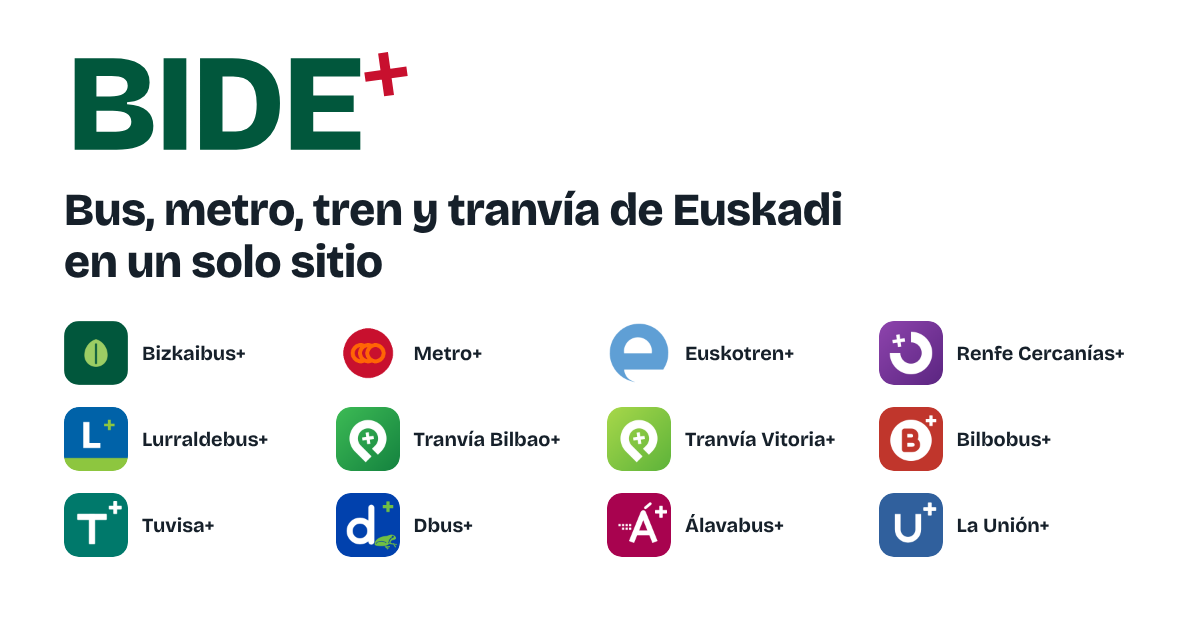
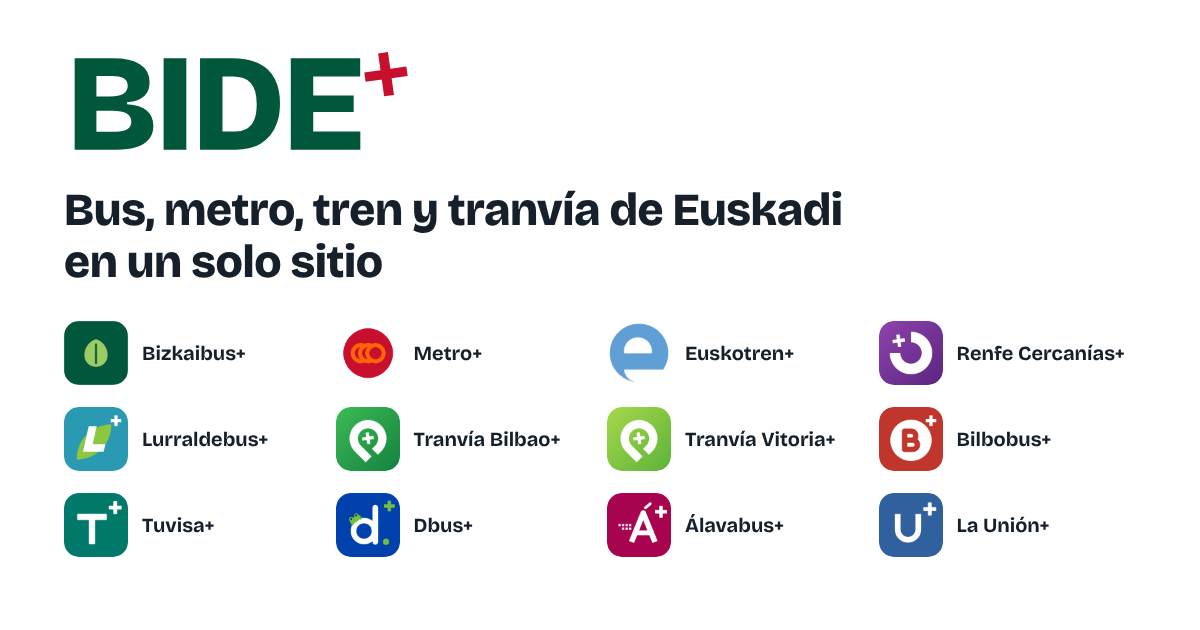
Bide+ versión 50: Lurraldebus+ y Dbus+ estrenan imagen (#119)
- Lurraldebus+: icono nuevo con la hoja de su logo y una L en cursiva, sobre el turquesa de sus autobuses con la hoja en verde lima. Cabecera, ficha del inicio y paleta en esos colores; en la cabecera, la marca en blanco, sin recuadro y algo más grande.
- Dbus+: el icono definitivo, con la rana asomando sobre la d.
- «Nuevo» durante 3 días para cualquier red o función nueva.
- Versión 50 con su nota en castellano, euskera e inglés.

Changed region(s): [[0.0308, 0.6333, 0.1233, 0.754], [0.2775, 0.7841, 0.3392, 0.8746]]

diff --git a/bideplus/js/i18n.js b/bideplus/js/i18n.js
@@ -100,6 +100,8 @@
             'bide.upcoming.planner.2': 'Coste del viaje según los transportes que elijas.',
             'bide.upcoming.planner.3': 'Seguimiento del viaje en curso: por dónde vas, cuánto falta para el transbordo y la hora de llegada, actualizados con el directo.',
             'bide.upcoming.planner.4': 'Si quieres, un aviso en el móvil un rato antes de cada transbordo. Es opcional: lo activas al planificar el viaje.',
+            'bide.changelog.50.title': 'Lurraldebus+ y Dbus+ estrenan imagen',
+            'bide.changelog.50.text': 'Lurraldebus+ estrena icono y colores: la hoja de su logo con el turquesa de sus autobuses. Dbus+ cambia a su icono definitivo, con la rana asomando sobre la d. En el móvil, el icono de la app instalada puede tardar un poco en cambiar.',
             'bide.changelog.48.title': 'Iconos nuevos para Bilbobus+ y Dbus+',
             'bide.changelog.48.text': 'Bilbobus+ y Dbus+ estrenan icono, dibujado a partir de la imagen de cada servicio: la B redonda de Bilbobus y la d de Dbus con su rana verde. En el móvil, el icono de la app instalada puede tardar un poco en cambiar.',
             'bide.changelog.47.title': 'Apoya Bide+, a mano',
@@ -541,6 +543,8 @@
             'bide.upcoming.planner.2': 'Bidaiaren kostua, aukeratzen dituzun garraioen arabera.',
             'bide.upcoming.planner.3': 'Uneko bidaiaren jarraipena: non zauden, zenbat falta den aldaketarako eta iristeko ordua, zuzenekoarekin eguneratuta.',
             'bide.upcoming.planner.4': 'Nahi baduzu, abisu bat mugikorrean aldaketa bakoitza baino lehen. Aukerakoa da: bidaia planifikatzean aktibatzen da.',
+            'bide.changelog.50.title': 'Lurraldebus+ eta Dbus+ aplikazioek irudi berria',
+            'bide.changelog.50.text': 'Lurraldebus+ aplikazioak ikono eta kolore berriak ditu: bere logoko hostoa, autobusen turkesarekin. Dbus+ aplikazioak behin betiko ikonoa du, igela d-aren gainetik begira. Mugikorrean, instalatutako aplikazioaren ikonoak denbora pixka bat behar dezake aldatzeko.',
             'bide.changelog.48.title': 'Ikono berriak Bilbobus+ eta Dbus+ aplikazioentzat',
             'bide.changelog.48.text': 'Bilbobus+ eta Dbus+ aplikazioek ikono berria dute, zerbitzu bakoitzaren irudian oinarrituta: Bilbobuseko B biribila eta Dbuseko d-a bere igel berdearekin. Mugikorrean, instalatutako aplikazioaren ikonoak denbora pixka bat behar dezake aldatzeko.',
             'bide.changelog.47.title': 'Lagundu Bide+, eskura',
@@ -982,6 +986,8 @@
             'bide.upcoming.planner.2': 'Trip cost based on the transport you choose.',
             'bide.upcoming.planner.3': 'Live tracking of your current trip: where you are, how long until the transfer and your arrival time, updated with real-time data.',
             'bide.upcoming.planner.4': 'Optionally, a notification on your phone a little before each transfer. You turn it on when planning the trip.',
+            'bide.changelog.50.title': 'A new look for Lurraldebus+ and Dbus+',
+            'bide.changelog.50.text': 'Lurraldebus+ has a new icon and colours: the leaf from its logo with the turquoise of its buses. Dbus+ switches to its final icon, with the frog peeking over the d. On your phone, the installed app’s icon may take a little while to change.',
             'bide.changelog.48.title': 'New icons for Bilbobus+ and Dbus+',
             'bide.changelog.48.text': 'Bilbobus+ and Dbus+ have new icons, drawn from each service’s own look: the round B of Bilbobus and the d of Dbus with its green frog. On your phone, the installed app’s icon may take a little while to change.',
             'bide.changelog.47.title': 'Support Bide+, close at hand',

diff --git a/bideplus/css/style-networks.css b/bideplus/css/style-networks.css
@@ -14,7 +14,7 @@
     --c: #74349A;
 }
 .tile--lurraldebus {
-    --c: #0062A8;
+    --c: #2A9AB2;
 }
 .tile--tranvia-bilbao {
     --c: #4EB848;
@@ -49,7 +49,7 @@ html.bide .bide-swatch--renfe {
     background: #74349A;
 }
 html.bide .bide-swatch--lurraldebus {
-    background: #0062A8;
+    background: #2A9AB2;
 }
 html.bide .bide-swatch--tranvia-bilbao {
     background: #2f7a2a;
@@ -108,12 +108,12 @@ html.is-renfe {
     --backdrop: rgba(18, 10, 22, .5);
 }
 html.is-lurraldebus {
-    --bg: #f4f7fb;
-    --border: #d9e3ef;
-    --primary: #0062A8;
+    --bg: #f3f8f9;
+    --border: #d4e6ea;
+    --primary: #1E7C95;
     --primary-light: #8DC63F;
-    --primary-dark: #003F70;
-    --primary-tint: #E6F0F8;
+    --primary-dark: #145A6C;
+    --primary-tint: #E2F2F5;
     --text: #152230;
     --text-secondary: #556372;
     --backdrop: rgba(8, 16, 26, .5);

diff --git a/bideplus/css/style-app.css b/bideplus/css/style-app.css
@@ -278,6 +278,10 @@ svg[viewBox] rect {
         object-fit: contain;
         filter: brightness(0) invert(1);
     }
+    .app-logomark > img.is-large {
+        width: 90%;
+        height: 90%;
+    }
     .app-logomark > img.is-icon {
         width: 100%;
         height: 100%;

diff --git a/bideplus/js/networks.js b/bideplus/js/networks.js
@@ -205,7 +205,7 @@
     "lurraldebus": {
         "kind": "bus",
         "icons": "icons-lurraldebus",
-        "themeColor": "#0062A8",
+        "themeColor": "#2A9AB2",
         "title": [
             "LURRALDEBUS",
             ""

diff --git a/bideplus/api/Services/Changelog.php b/bideplus/api/Services/Changelog.php
@@ -6,6 +6,7 @@ namespace Services;
 final class Changelog
 {
     public const ENTRIES = [
+        ['2026-11-05', '05/11/2026', 50, 'Lurraldebus+ y Dbus+ estrenan imagen', 'Lurraldebus+ estrena icono y colores: la hoja de su logo con el turquesa de sus autobuses. Dbus+ cambia a su icono definitivo, con la rana asomando sobre la d. En el móvil, el icono de la app instalada puede tardar un poco en cambiar.'],
         ['2026-11-05', '05/11/2026', 48, 'Iconos nuevos para Bilbobus+ y Dbus+', 'Bilbobus+ y Dbus+ estrenan icono, dibujado a partir de la imagen de cada servicio: la B redonda de Bilbobus y la d de Dbus con su rana verde. En el móvil, el icono de la app instalada puede tardar un poco en cambiar.'],
         ['2026-11-05', '05/11/2026', 47, 'Apoya Bide+, a mano', '«Apoya Bide+» está ahora a mano: en el pie de todas las páginas, en la columna lateral del ordenador y en Ajustes, dentro de «La app». Todas las pantallas usan la misma letra, con la negrita de verdad, y la app pesa menos. En el ordenador, la columna lateral lleva también a Estado de las redes, y el pie enseña las apps en dos columnas.'],
         ['2026-11-05', '05/11/2026', 46, 'Todos los trenes, iguales', 'Metro, Euskotren, Renfe y los tranvías enseñan cada estación igual: el nombre arriba, un botón por cada línea que para y un bloque por sentido con el próximo tren en grande. En Renfe, cada bloque es una línea con su destino («C1 → Santurtzi»). Todas las apps usan ya el mismo tamaño de letra, y un tren cancelado nunca sale como el próximo. En iPhone, Ajustes y una pregunta nueva de Info explican por qué el móvil pide la ubicación cada vez que usas «Cerca de mí».'],

diff --git a/bideplus/api/Networks/lurraldebus.php b/bideplus/api/Networks/lurraldebus.php
@@ -8,21 +8,21 @@ return [
 
     'brand' => [
         'icons' => 'icons-lurraldebus',
-        'theme_color' => '#0062A8',
+        'theme_color' => '#2A9AB2',
         'title' => ['LURRALDEBUS', ''],
-        'logomark' => '<img class="is-icon" src="/icons-lurraldebus/icon-192.png" alt="Lurraldebus+" aria-hidden="true">',
+        'logomark' => '<img class="is-large" src="/icons-lurraldebus/glyph.png" alt="Lurraldebus+" aria-hidden="true">',
         'card_logomark' => '<img src="/icons-lurraldebus/icon-192.png" alt="Lurraldebus+" aria-hidden="true">',
         // Colores (scripts/build-networks-css.php los pasa a css/style-networks.css): la ficha del menú, el cuadradito de
         // Bide+ y la paleta de la app. Sin paleta ni cuadradito, los de Bide+ (verde).
-        'tile_color' => '#0062A8',
-        'swatch_color' => '#0062A8',
+        'tile_color' => '#2A9AB2',
+        'swatch_color' => '#2A9AB2',
         'palette' => [
-            'bg' => '#f4f7fb',
-            'border' => '#d9e3ef',
-            'primary' => '#0062A8',
+            'bg' => '#f3f8f9',
+            'border' => '#d4e6ea',
+            'primary' => '#1E7C95',
             'primary-light' => '#8DC63F',
-            'primary-dark' => '#003F70',
-            'primary-tint' => '#E6F0F8',
+            'primary-dark' => '#145A6C',
+            'primary-tint' => '#E2F2F5',
             'text' => '#152230',
             'text-secondary' => '#556372',
             'backdrop' => 'rgba(8, 16, 26, .5)',

diff --git a/bideplus/tests/push-test.php b/bideplus/tests/push-test.php
@@ -387,8 +387,8 @@ try {
 
     $iVersion = Changelog::version();
     $Expect('versión: es la última novedad', $iVersion === Changelog::ENTRIES[0][2] && $iVersion >= 34, (string)$iVersion);
-    $aNewer = Changelog::newerThan($iVersion - 2, 'es');
-    $Expect('versión: lo que trae cada versión posterior a la del móvil, de la más nueva a la más vieja', array_column($aNewer, 'number') === [$iVersion, $iVersion - 1] && $aNewer[0]['title'] === Changelog::ENTRIES[0][3]);
+    $aNewer = Changelog::newerThan(Changelog::ENTRIES[2][2], 'es');
+    $Expect('versión: lo que trae cada versión posterior a la del móvil, de la más nueva a la más vieja', array_column($aNewer, 'number') === [Changelog::ENTRIES[0][2], Changelog::ENTRIES[1][2]] && $aNewer[0]['title'] === Changelog::ENTRIES[0][3]);
     $aBasque = Changelog::newerThan($iVersion - 1, 'eu');
     $Expect('versión: en euskera y en inglés, con los textos de js/i18n.js', count($aBasque) === 1 && $aBasque[0]['title'] !== Changelog::ENTRIES[0][3] && Changelog::newerThan($iVersion - 1, 'en')[0]['title'] !== $aBasque[0]['title']);
     $Expect('versión: el móvil al día no tiene nada pendiente', Changelog::newerThan($iVersion, 'es') === []);

diff --git a/bideplus/api/Config/site.php b/bideplus/api/Config/site.php
@@ -9,7 +9,7 @@ return [
     // La red que se abre en «/» y cuyas direcciones no llevan ?red= (una de api/Networks).
     'default_network' => 'bus',
     // Días que una red nueva (added en su ficha) o una función nueva (data-new-since) llevan la etiqueta «Nuevo».
-    'new_days' => 30,
+    'new_days' => 3,
     'author' => 'Yeray Garrido',
     'legal_name' => 'Yeray Garrido Parra',
     'author_url' => 'https://www.yeraygarrido.dev/',
